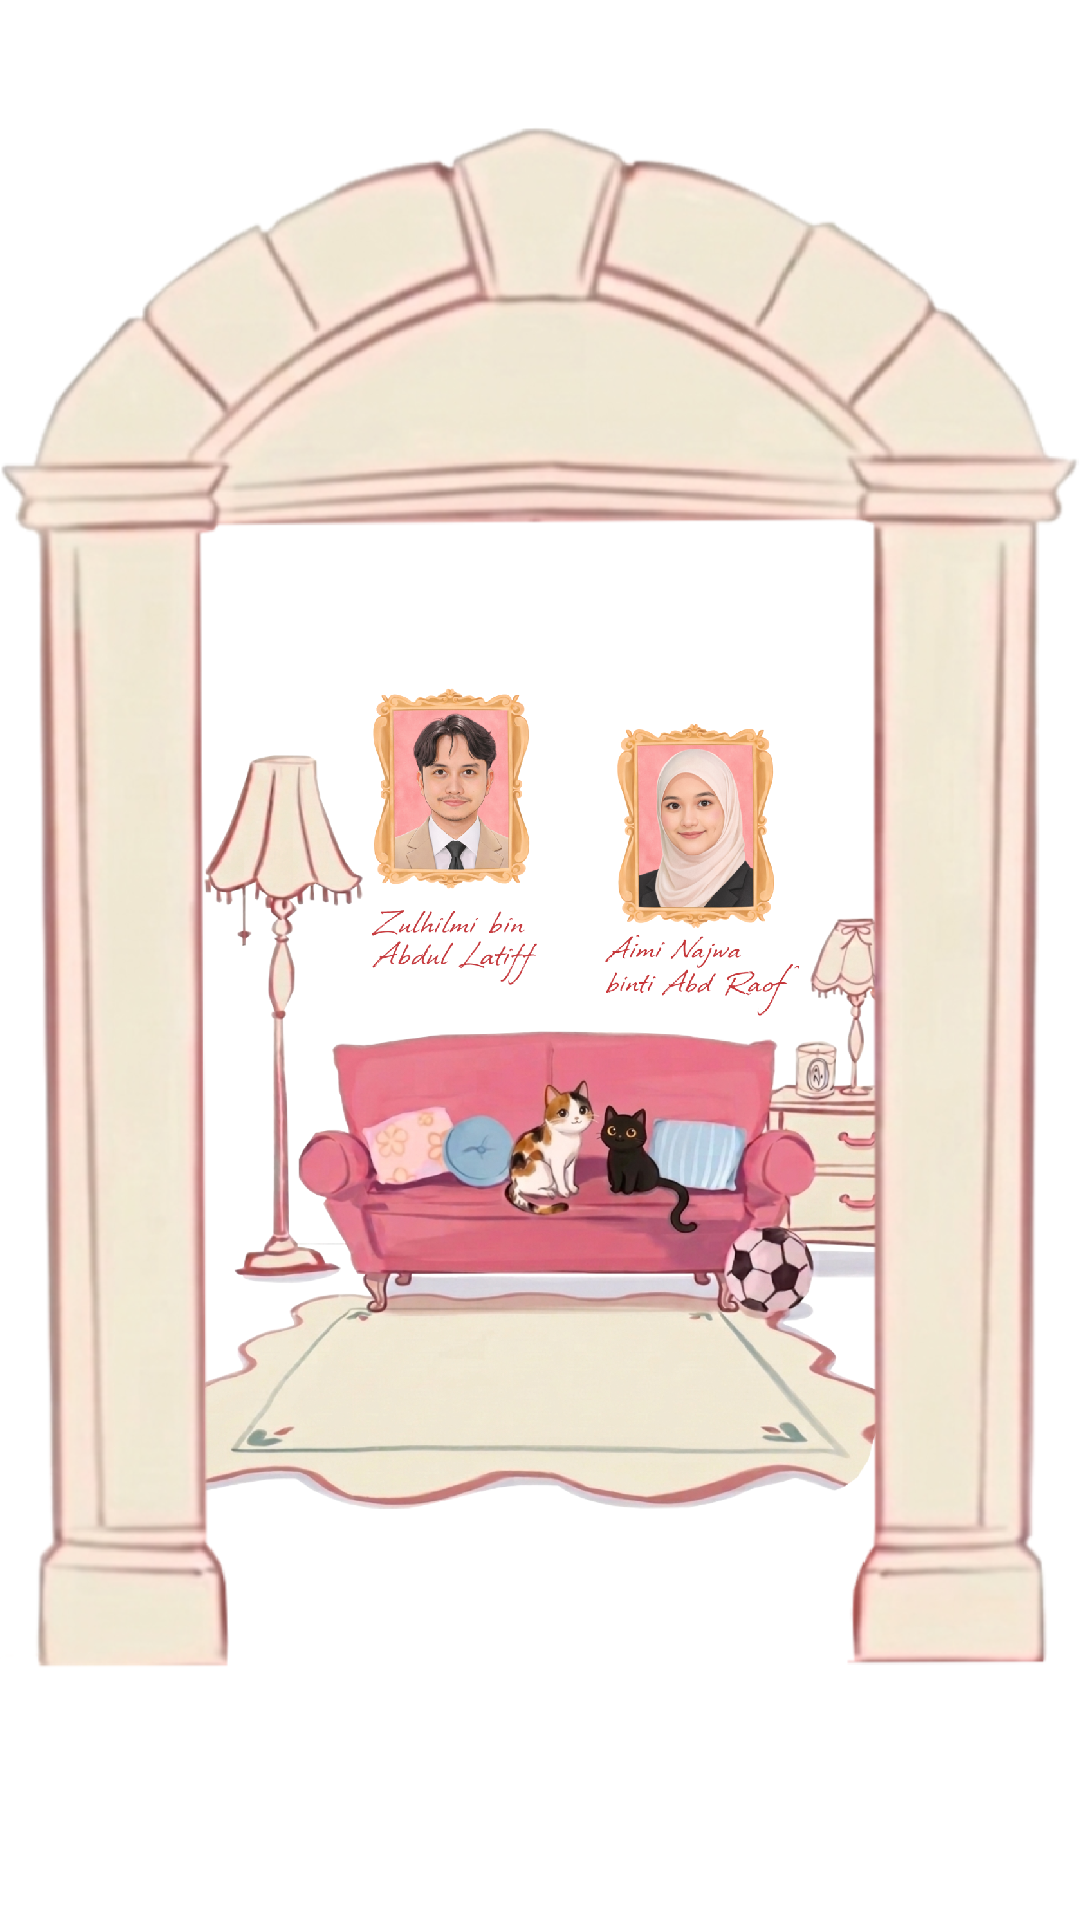
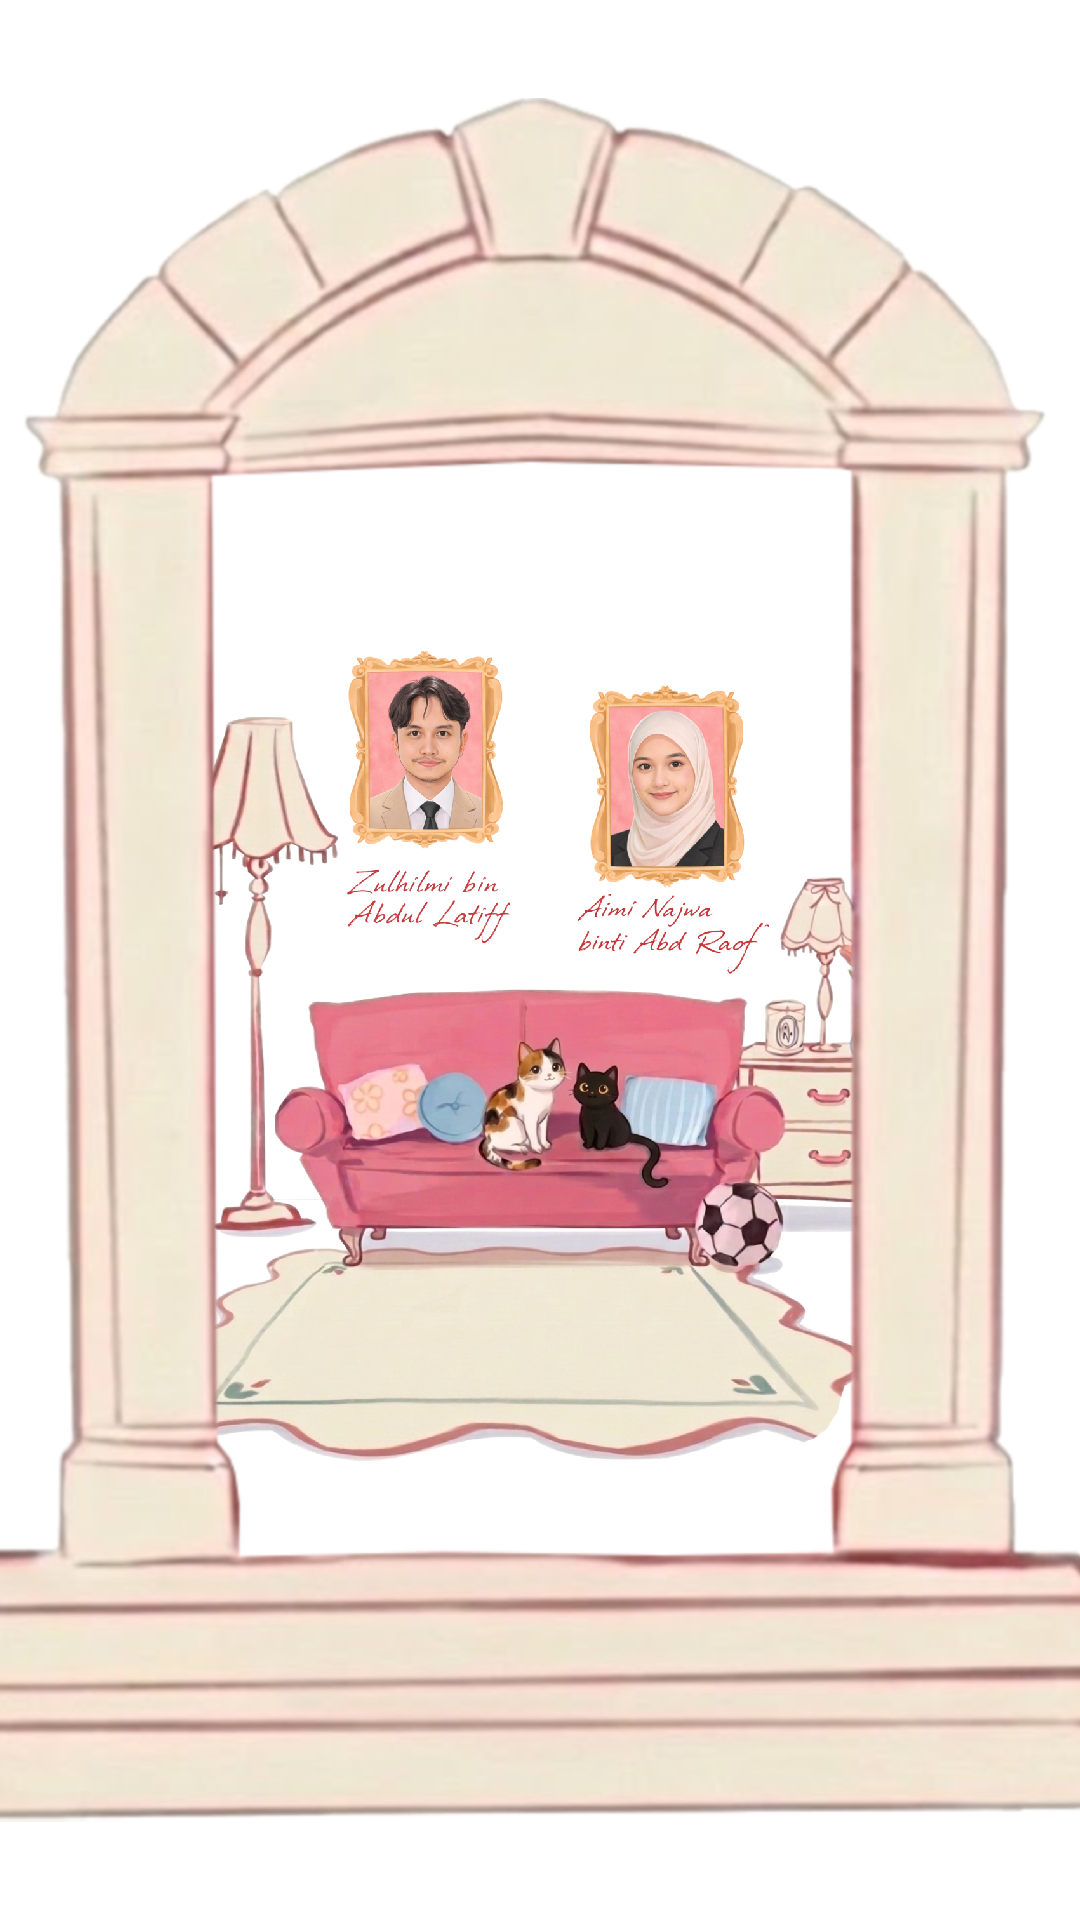
update

diff --git a/app/page.tsx b/app/page.tsx
@@ -576,12 +576,12 @@ const addToCalendar = (type: 'google' | 'apple') => {
   <motion.img 
   animate={{ scale: [1, 1.2, 1] }} 
   transition={{ repeat: Infinity, duration: 3 }} // Tambah ni supaya dia sentiasa berdenyut
-          src="/image/16.png" className="absolute bottom-[65%] left-[45%] w-28 z-20 w-[100px]"
+          src="/image/16.png" className="absolute bottom-[70%] left-[40%] w-28 z-20 w-[100px]"
         />
           <motion.img 
   animate={{ scale: [1, 1.2, 1] }} 
   transition={{ repeat: Infinity, duration: 3 }} // Tambah ni supaya dia sentiasa berdenyut
-          src="/image/3.png" className="absolute bottom-[60%] left-[10%] w-28 z-20 w-[100px]"
+          src="/image/3.png" className="absolute bottom-[65%] left-[10%] w-28 z-20 w-[100px]"
         />
          {/* <motion.img 
   animate={{ scale: [1, 1.2, 1] }} 
